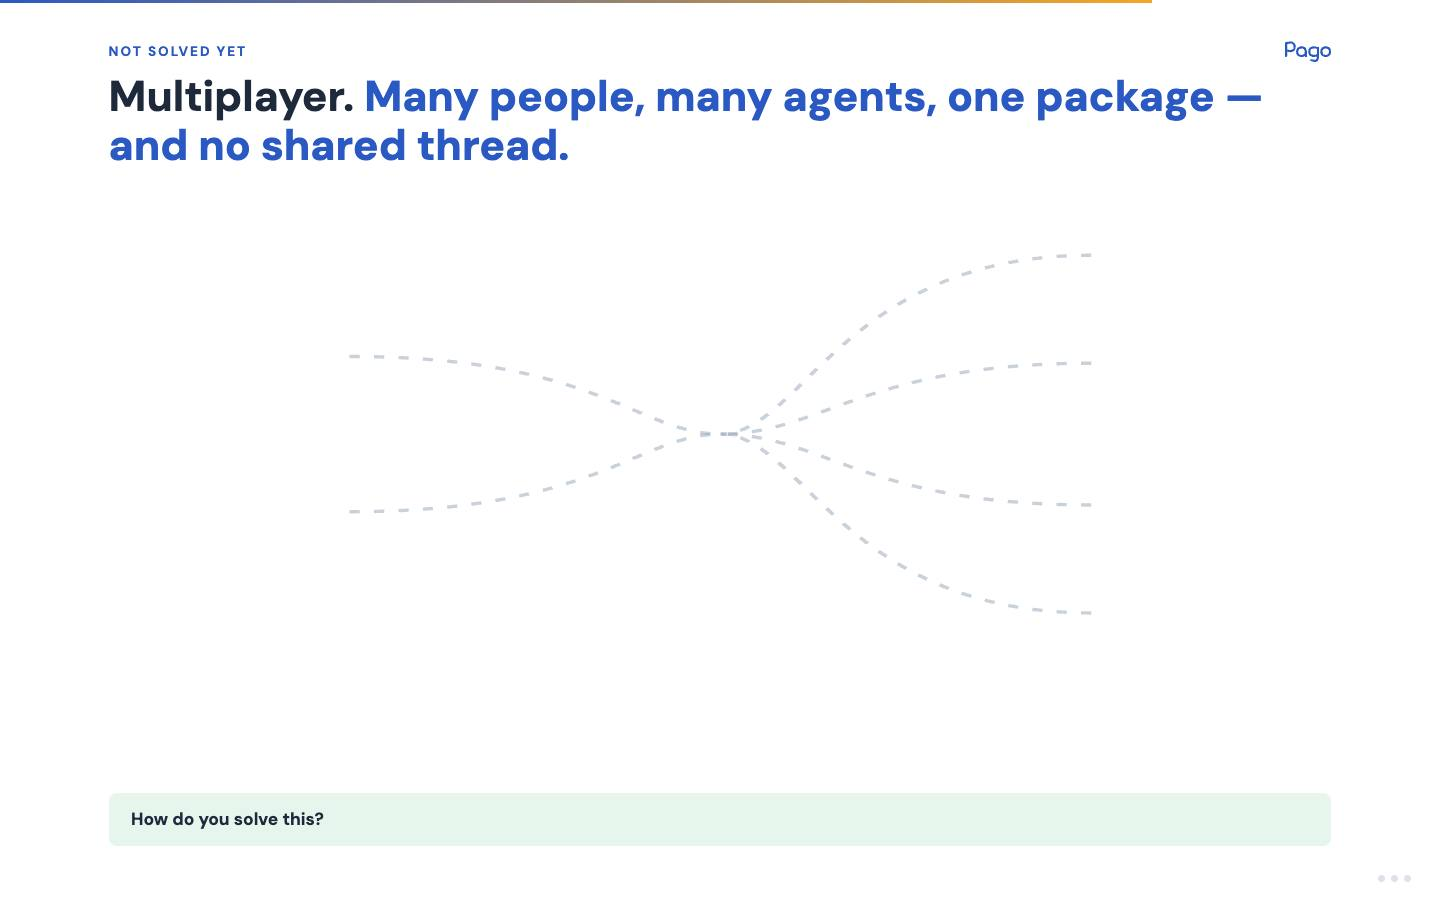
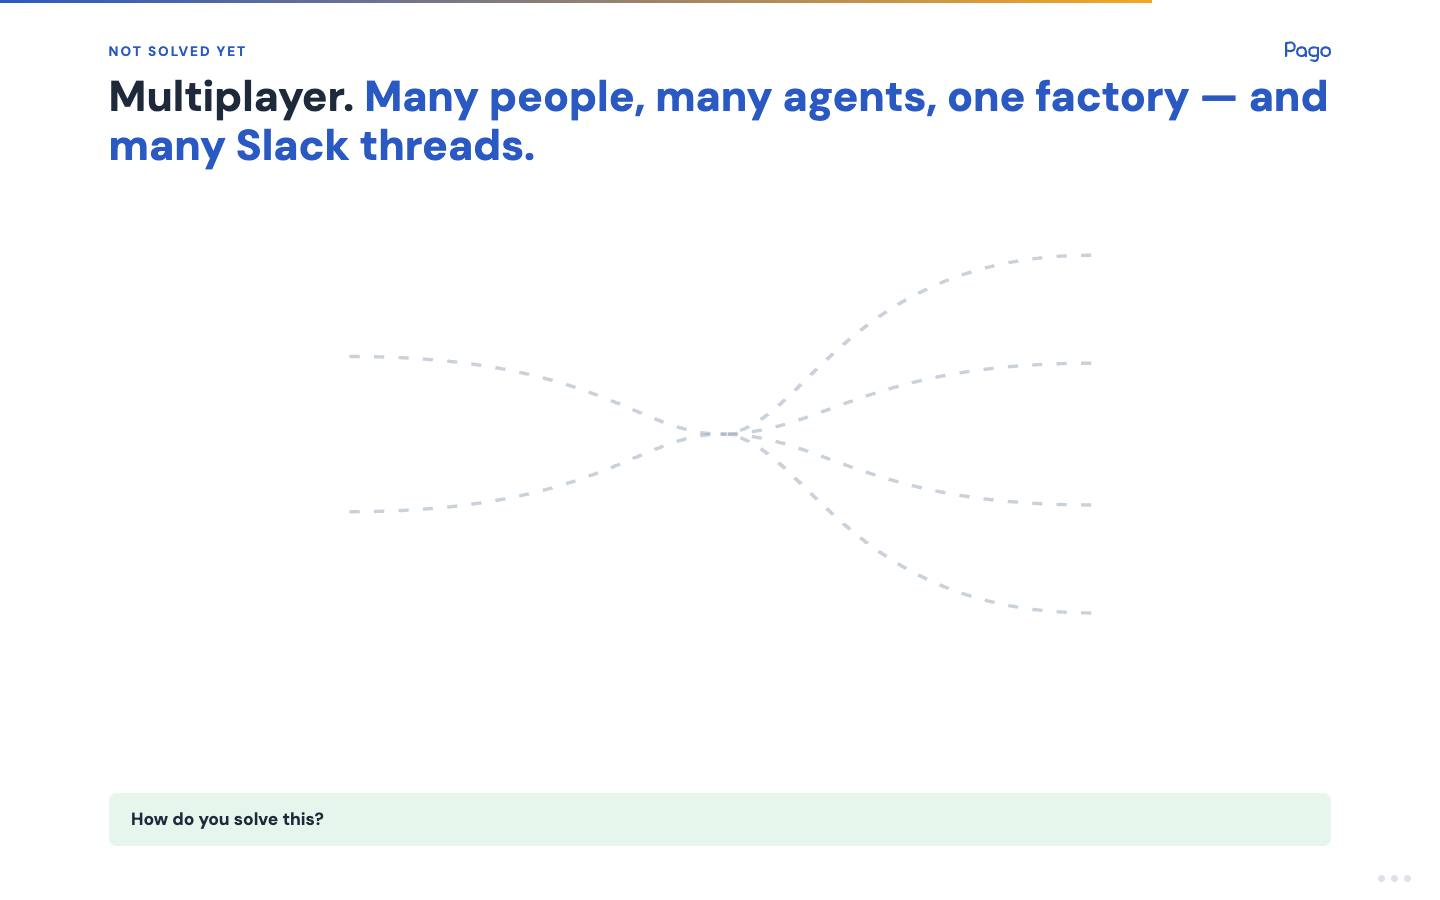
cto-craft v8: multiplayer fold is about the factory, not the package - title 'Many people, many agents, one factory - and many Slack threads', factory glyph at the centre of the wires

Changed region(s): [[0.0625, 0.1244, 0.4062, 0.1867], [0.7188, 0.0933, 0.9375, 0.1244]]

diff --git a/cto-craft/artifact-pago.html b/cto-craft/artifact-pago.html
@@ -1207,6 +1207,11 @@ body { font-family: 'DM Sans', 'Inter', -apple-system, sans-serif; color: var(--
 .mp-side .who em { font-style: normal; font-weight: 600; font-size: 0.82em; color: var(--text-muted); margin-left: auto; }
 .mp-side.agents .who { border-color: rgba(43,89,195,0.3); background: rgba(43,89,195,0.05); }
 .mp-core { display: flex; flex-direction: column; align-items: center; gap: clamp(6px,1vh,12px); z-index: 2; }
+.mp-factory { display: flex; flex-direction: column; align-items: center; gap: 4px; color: var(--pago-blue);
+  background: #fff; border: 2px solid rgba(43,89,195,0.35); border-radius: 18px; padding: clamp(10px,1.2vw,16px) clamp(14px,1.6vw,22px);
+  box-shadow: 0 8px 24px rgba(43,89,195,0.12); }
+.mp-factory svg { width: clamp(54px,6.2vw,92px); height: auto; }
+.mp-factory span { font-size: clamp(10px,1vw,13px); font-weight: 700; letter-spacing: 0.08em; text-transform: uppercase; color: var(--text-muted); }
 .mp-core .pkg { width: clamp(54px,6.2vw,92px); height: auto;
   filter: drop-shadow(0 10px 22px rgba(30,63,143,0.22)); }
 .slack-bubble { position: relative; background: #4A154B; color: #fff; border-radius: 14px;
@@ -1851,7 +1856,7 @@ body { font-family: 'DM Sans', 'Inter', -apple-system, sans-serif; color: var(--
       <div class="kicker">Not solved yet</div>
       <svg viewBox="0 0 82 38" class="pago-logo-sm"><use href="#pago-logo"/></svg>
     </div>
-    <h2 class="fold-title reveal">Multiplayer. <strong class="blue">Many people, many agents, one package &mdash; and no shared thread.</strong></h2>
+    <h2 class="fold-title reveal">Multiplayer. <strong class="blue">Many people, many agents, one factory &mdash; and many Slack threads.</strong></h2>
     <div class="mp" id="mp">
       <svg class="mp-wires" viewBox="0 0 600 300" preserveAspectRatio="none">
         <path d="M118 104 C240 104 260 150 300 150"/>
@@ -1868,7 +1873,7 @@ body { font-family: 'DM Sans', 'Inter', -apple-system, sans-serif; color: var(--
         <div class="who"><span>&#129464;</span>Sidekick<em>1 colleague</em></div>
       </div>
       <div class="mp-core">
-        <svg class="pkg" viewBox="0 0 72 64" data-stage="1"><use href="#pkg"/></svg>
+        <div class="mp-factory" data-stage="1"><svg viewBox="0 0 64 64"><use href="#factory-ico"/></svg><span>the factory</span></div>
         <div class="slack-bubble" data-stage="2">The link between them is Slack.<em>but the work happens on PRs, in git.</em></div>
       </div>
       <div class="mp-side agents" data-stage="1">

diff --git a/cto-craft/artifact.html b/cto-craft/artifact.html
@@ -1207,6 +1207,11 @@ body { font-family: 'DM Sans', 'Inter', -apple-system, sans-serif; color: var(--
 .mp-side .who em { font-style: normal; font-weight: 600; font-size: 0.82em; color: var(--text-muted); margin-left: auto; }
 .mp-side.agents .who { border-color: rgba(43,89,195,0.3); background: rgba(43,89,195,0.05); }
 .mp-core { display: flex; flex-direction: column; align-items: center; gap: clamp(6px,1vh,12px); z-index: 2; }
+.mp-factory { display: flex; flex-direction: column; align-items: center; gap: 4px; color: var(--pago-blue);
+  background: #fff; border: 2px solid rgba(43,89,195,0.35); border-radius: 18px; padding: clamp(10px,1.2vw,16px) clamp(14px,1.6vw,22px);
+  box-shadow: 0 8px 24px rgba(43,89,195,0.12); }
+.mp-factory svg { width: clamp(54px,6.2vw,92px); height: auto; }
+.mp-factory span { font-size: clamp(10px,1vw,13px); font-weight: 700; letter-spacing: 0.08em; text-transform: uppercase; color: var(--text-muted); }
 .mp-core .pkg { width: clamp(54px,6.2vw,92px); height: auto;
   filter: drop-shadow(0 10px 22px rgba(30,63,143,0.22)); }
 .slack-bubble { position: relative; background: #4A154B; color: #fff; border-radius: 14px;
@@ -1851,7 +1856,7 @@ body { font-family: 'DM Sans', 'Inter', -apple-system, sans-serif; color: var(--
       <div class="kicker">Not solved yet</div>
       <svg viewBox="0 0 82 38" class="pago-logo-sm"><use href="#pago-logo"/></svg>
     </div>
-    <h2 class="fold-title reveal">Multiplayer. <strong class="blue">Many people, many agents, one package &mdash; and no shared thread.</strong></h2>
+    <h2 class="fold-title reveal">Multiplayer. <strong class="blue">Many people, many agents, one factory &mdash; and many Slack threads.</strong></h2>
     <div class="mp" id="mp">
       <svg class="mp-wires" viewBox="0 0 600 300" preserveAspectRatio="none">
         <path d="M118 104 C240 104 260 150 300 150"/>
@@ -1868,7 +1873,7 @@ body { font-family: 'DM Sans', 'Inter', -apple-system, sans-serif; color: var(--
         <div class="who"><span>&#129464;</span>Sidekick<em>1 colleague</em></div>
       </div>
       <div class="mp-core">
-        <svg class="pkg" viewBox="0 0 72 64" data-stage="1"><use href="#pkg"/></svg>
+        <div class="mp-factory" data-stage="1"><svg viewBox="0 0 64 64"><use href="#factory-ico"/></svg><span>the factory</span></div>
         <div class="slack-bubble" data-stage="2">The link between them is Slack.<em>but the work happens on PRs, in git.</em></div>
       </div>
       <div class="mp-side agents" data-stage="1">

diff --git a/cto-craft/index.html b/cto-craft/index.html
@@ -497,6 +497,11 @@
 .mp-side .who em { font-style: normal; font-weight: 600; font-size: 0.82em; color: var(--text-muted); margin-left: auto; }
 .mp-side.agents .who { border-color: rgba(43,89,195,0.3); background: rgba(43,89,195,0.05); }
 .mp-core { display: flex; flex-direction: column; align-items: center; gap: clamp(6px,1vh,12px); z-index: 2; }
+.mp-factory { display: flex; flex-direction: column; align-items: center; gap: 4px; color: var(--pago-blue);
+  background: #fff; border: 2px solid rgba(43,89,195,0.35); border-radius: 18px; padding: clamp(10px,1.2vw,16px) clamp(14px,1.6vw,22px);
+  box-shadow: 0 8px 24px rgba(43,89,195,0.12); }
+.mp-factory svg { width: clamp(54px,6.2vw,92px); height: auto; }
+.mp-factory span { font-size: clamp(10px,1vw,13px); font-weight: 700; letter-spacing: 0.08em; text-transform: uppercase; color: var(--text-muted); }
 .mp-core .pkg { width: clamp(54px,6.2vw,92px); height: auto;
   filter: drop-shadow(0 10px 22px rgba(30,63,143,0.22)); }
 .slack-bubble { position: relative; background: #4A154B; color: #fff; border-radius: 14px;
@@ -1142,7 +1147,7 @@
       <div class="kicker">Not solved yet</div>
       <svg viewBox="0 0 82 38" class="pago-logo-sm"><use href="#pago-logo"/></svg>
     </div>
-    <h2 class="fold-title reveal">Multiplayer. <strong class="blue">Many people, many agents, one package &mdash; and no shared thread.</strong></h2>
+    <h2 class="fold-title reveal">Multiplayer. <strong class="blue">Many people, many agents, one factory &mdash; and many Slack threads.</strong></h2>
     <div class="mp" id="mp">
       <svg class="mp-wires" viewBox="0 0 600 300" preserveAspectRatio="none">
         <path d="M118 104 C240 104 260 150 300 150"/>
@@ -1159,7 +1164,7 @@
         <div class="who"><span>&#129464;</span>Sidekick<em>1 colleague</em></div>
       </div>
       <div class="mp-core">
-        <svg class="pkg" viewBox="0 0 72 64" data-stage="1"><use href="#pkg"/></svg>
+        <div class="mp-factory" data-stage="1"><svg viewBox="0 0 64 64"><use href="#factory-ico"/></svg><span>the factory</span></div>
         <div class="slack-bubble" data-stage="2">The link between them is Slack.<em>but the work happens on PRs, in git.</em></div>
       </div>
       <div class="mp-side agents" data-stage="1">
